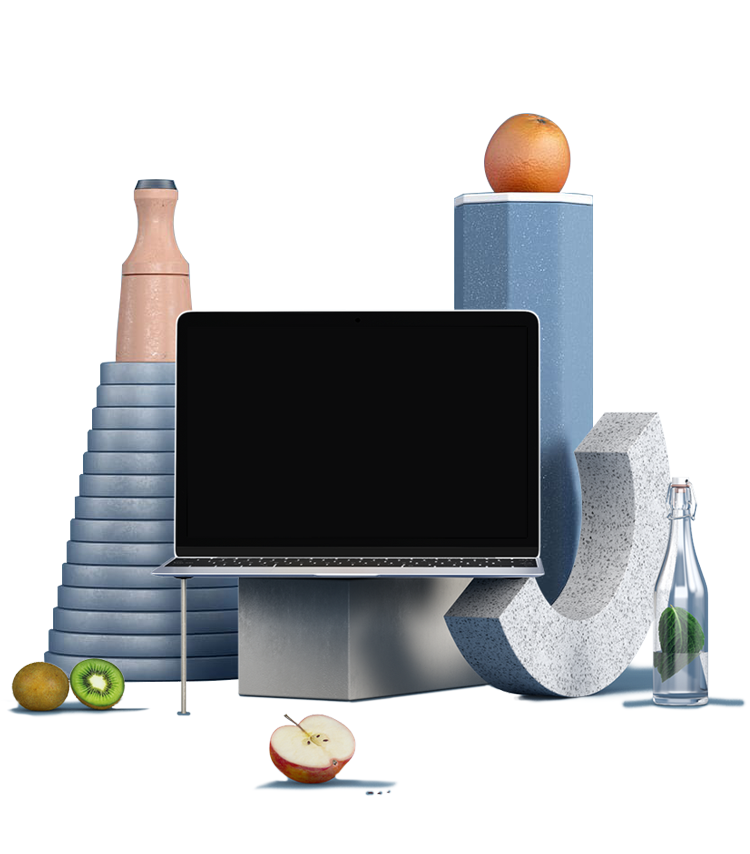
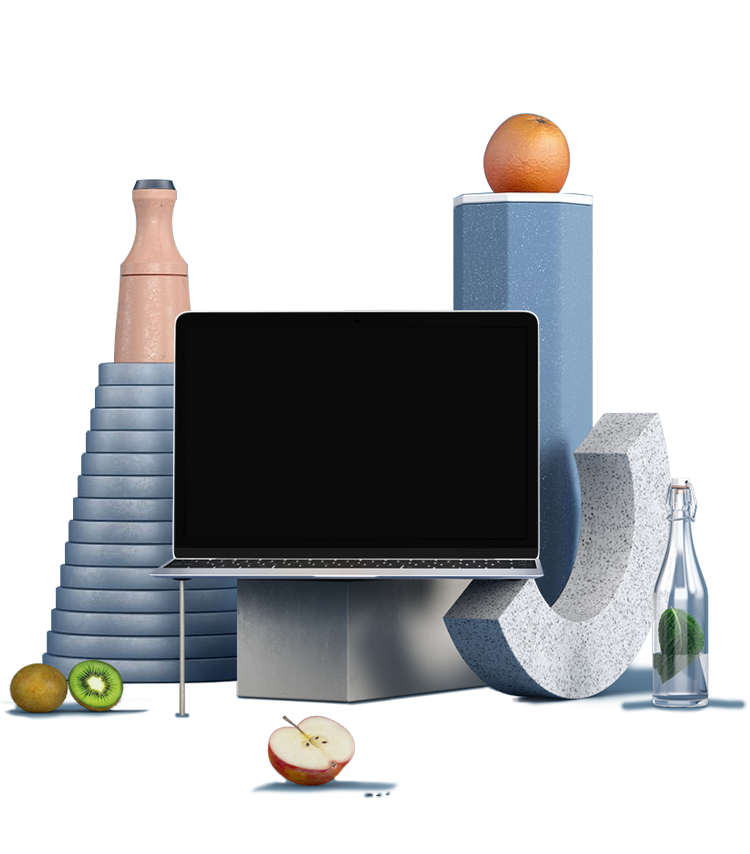
hrfy

diff --git a/ss2/www.squarespace.com/index2.html b/ss2/www.squarespace.com/index2.html
@@ -1709,7 +1709,7 @@ beautiful website. Domains, eCommerce, hosting, galleries, analytics, and
 
                                             <div class="featured-customers__container__mobile__slider-container__slider__content__card__image">
 
-                                                <img alt="Squarespace customer Sadie Williams." data-load="false" data-use-bg-image="true" data-size-format="filename" role="presentation" data-src="new/small-business-scene.png" data-image-dimensions="1660x1890">
+                                                <img alt="Squarespace customer Sadie Williams." data-load="false" data-use-bg-image="true" data-size-format="filename" role="presentation" data-src="new/small-business-scene2.png">
 
                                             </div>
                                         </div>

diff --git a/ss2/www.squarespace.com/new/featured-customersb07a.css b/ss2/www.squarespace.com/new/featured-customersb07a.css
@@ -375,7 +375,7 @@
 	display: -ms-flexbox;
 	display: flex;
 	position: relative;
-	height: calc(112px + 75vw)
+	height: calc(140px + 75vw)
 }
 
 @media all and (min-width:768px) {
@@ -432,7 +432,7 @@
 	background-position: center top;
 	background-repeat: no-repeat;
 	width: 100%;
-	height: 75vw
+	height: 100%
 }
 
 .featured-customers__container__mobile__slider-container__slider__content__card__image img {
